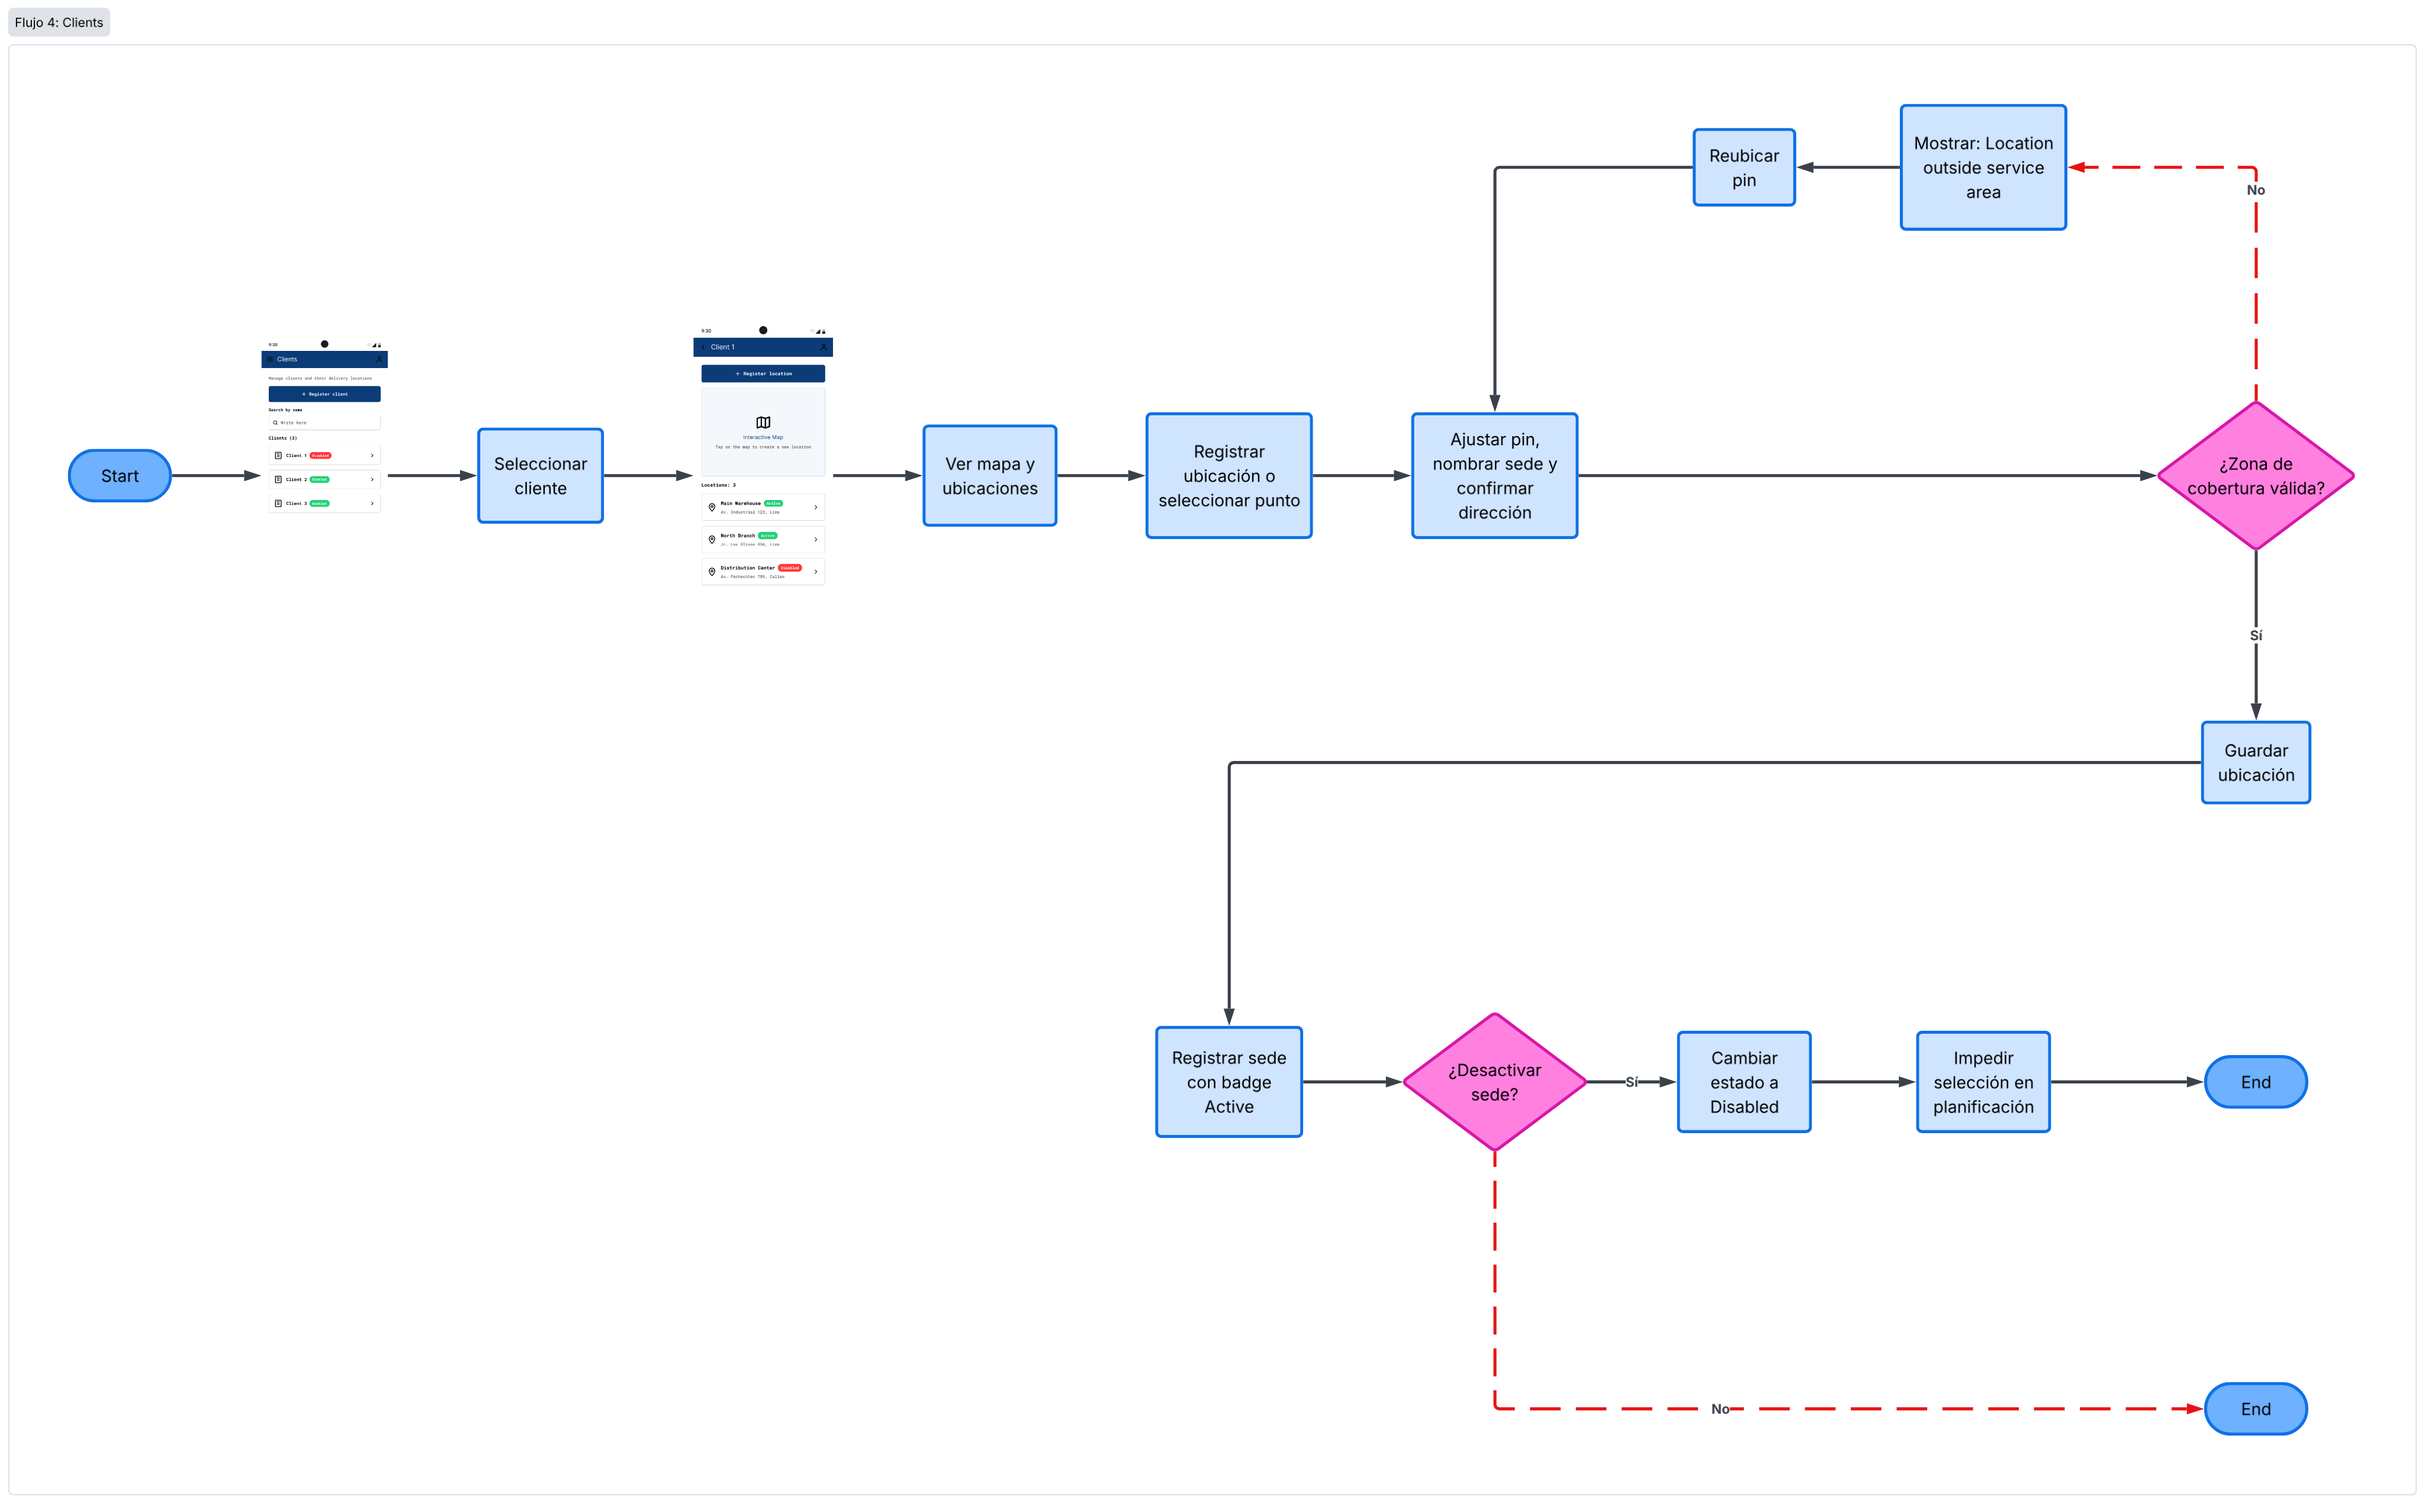
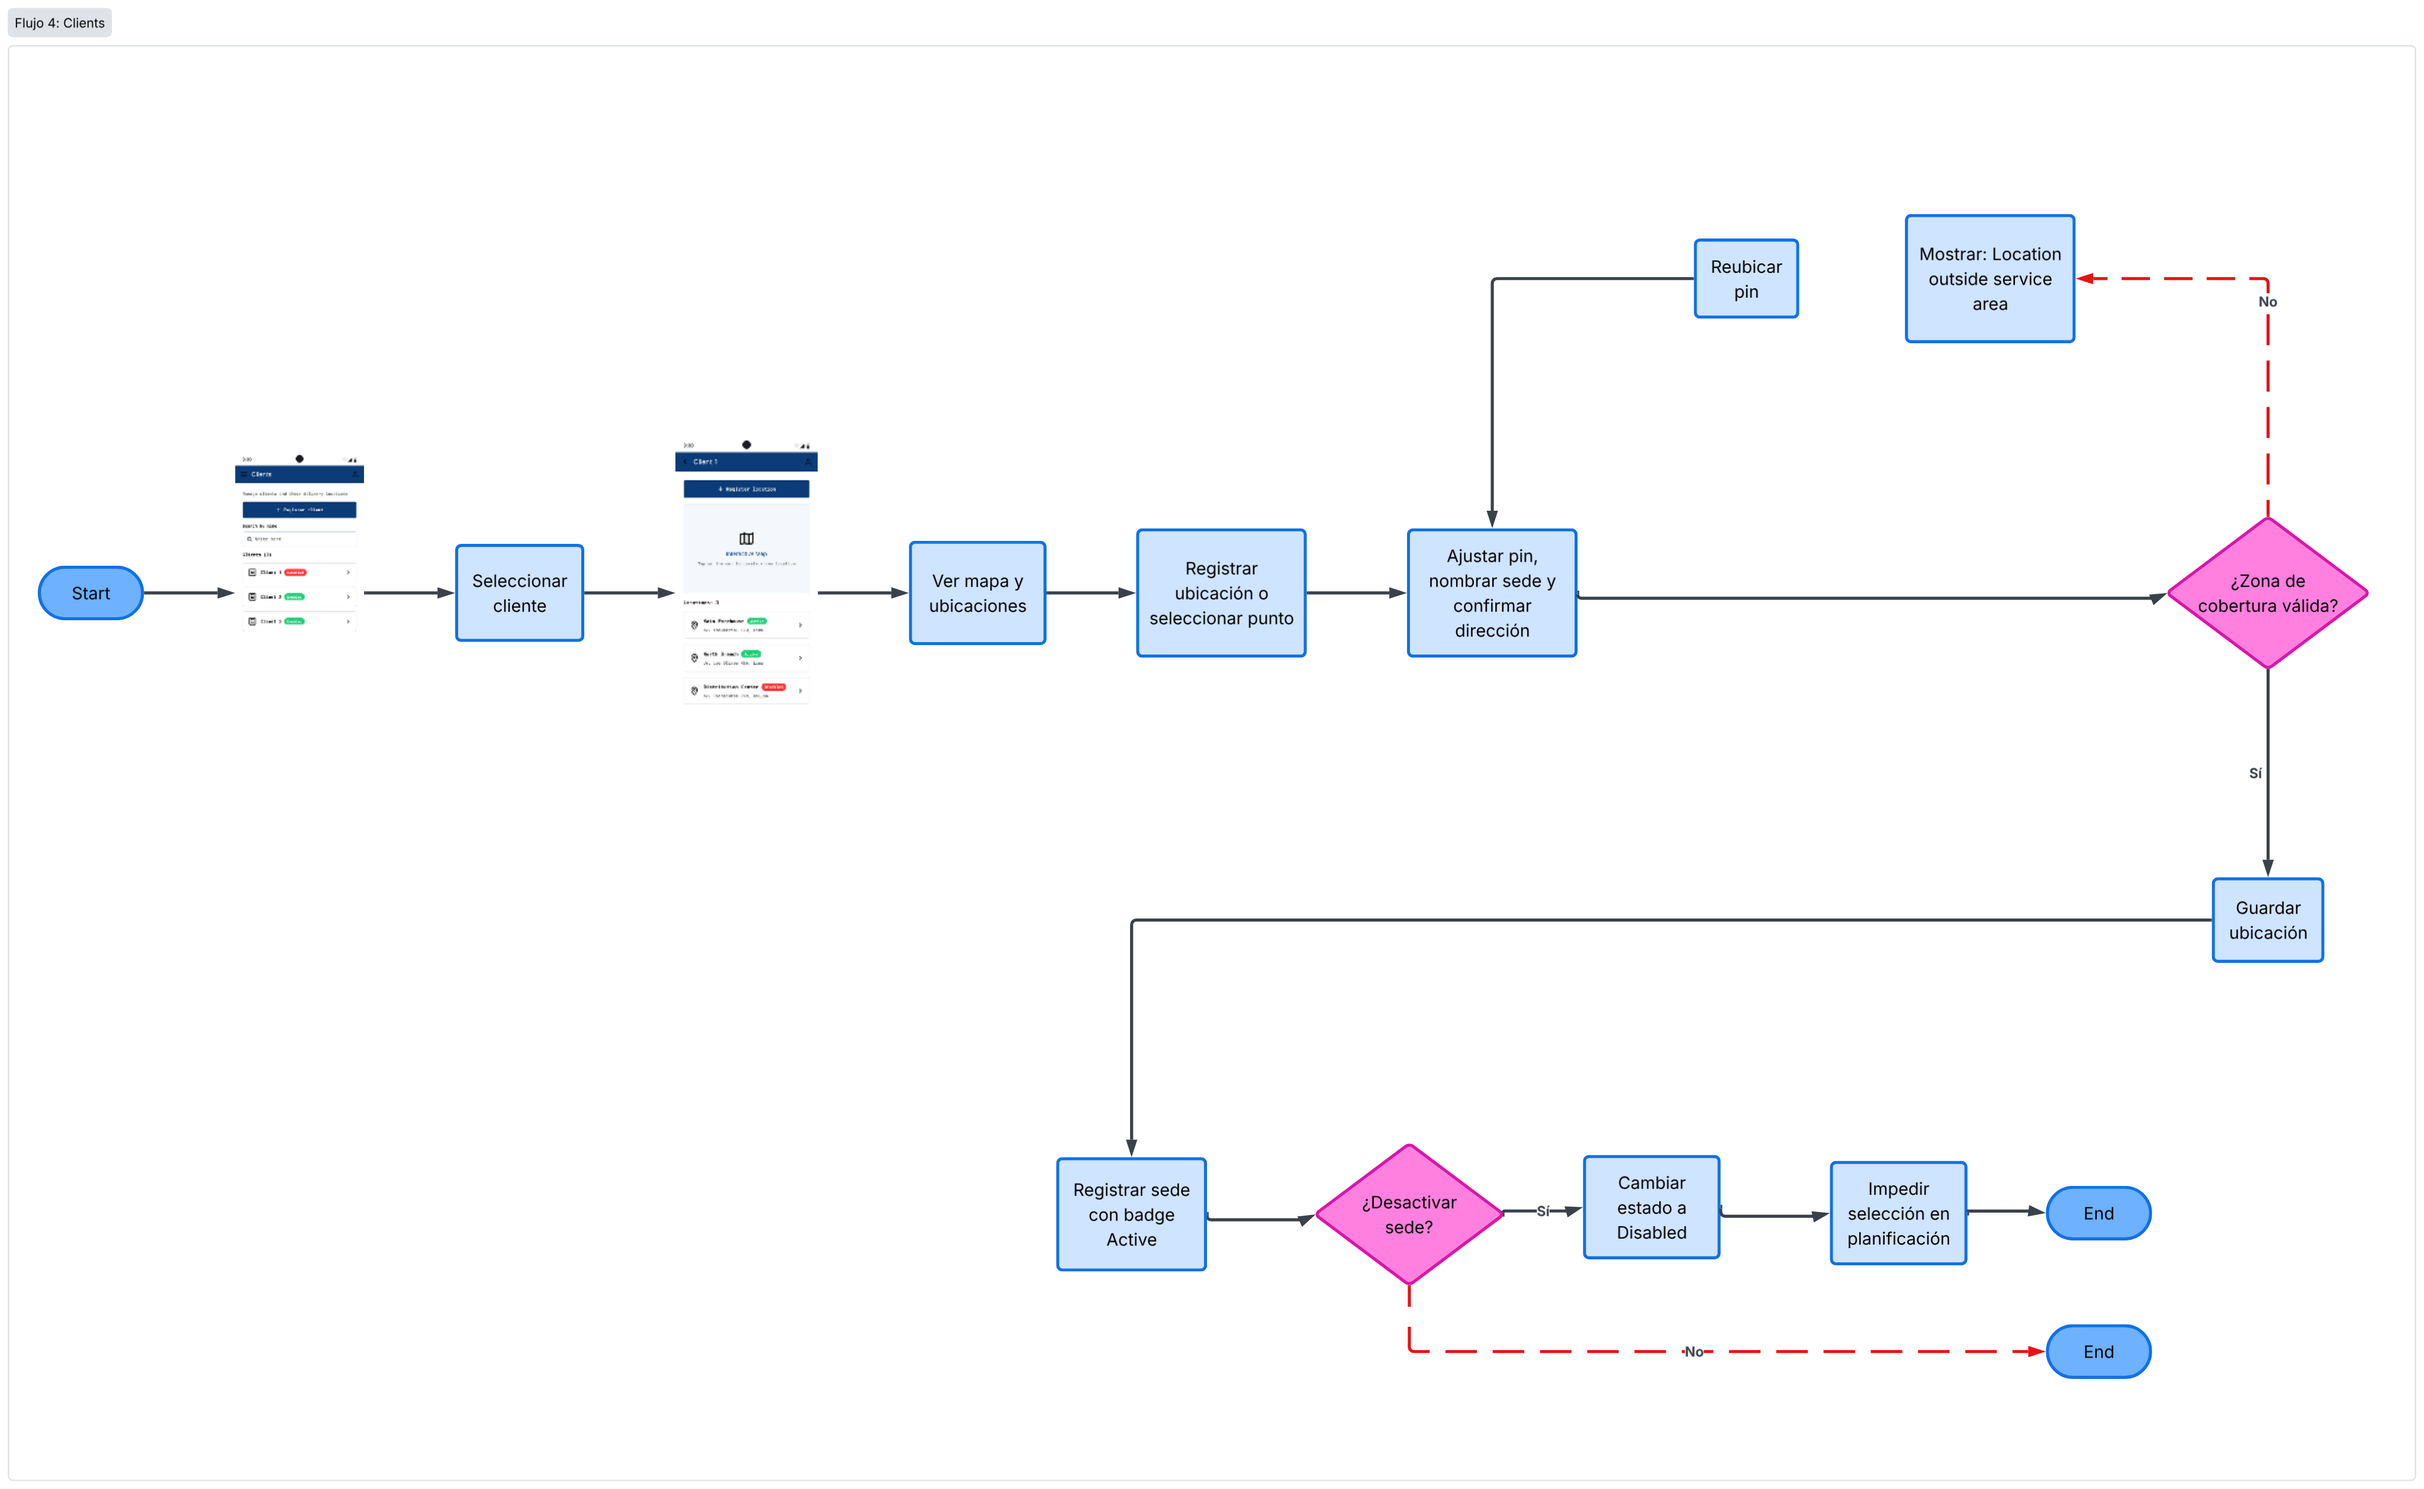
docs: add user flow diagram image for fleet monitoring and vehicle management

diff --git a/04-cap3-solution-ui-ux-design.md b/04-cap3-solution-ui-ux-design.md
@@ -482,7 +482,7 @@ Los diagramas de flujo de usuario (User Flows) mapean los caminos de decisión c
 
 - **User Flow 3 (Monitoreo de Flota y Vehículos):** Ilustra las decisiones para consultar fichas técnicas de unidades, modificar la placa o capacidad máxima, asignar miembros de equipo al vehículo y cambiar su estado operacional.
 
-
+![user_flow3.png](assets/images/cap3/mock-ups/user_flow/user_flow3.png)
 
 - **User Flow 4 (Asignación de Almacenes a Clientes):** Representa la secuencia de decisiones del administrador para evaluar direcciones de clientes, ubicarlas en el mapa interactivo y validar si el punto se encuentra activo antes de vincularlo a rutas.
 
